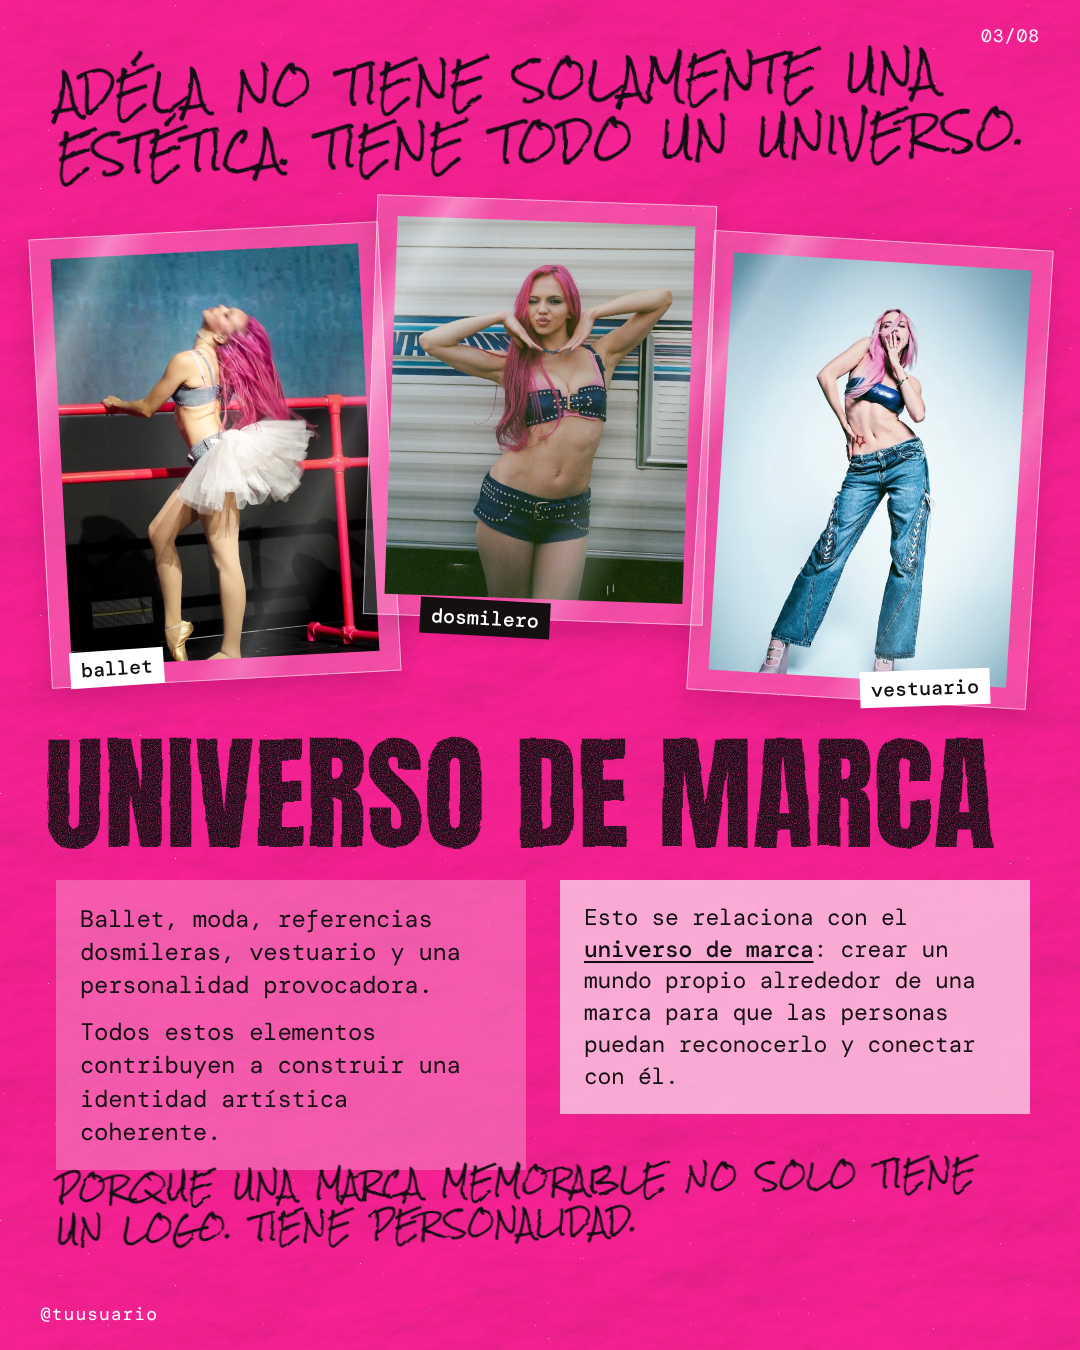
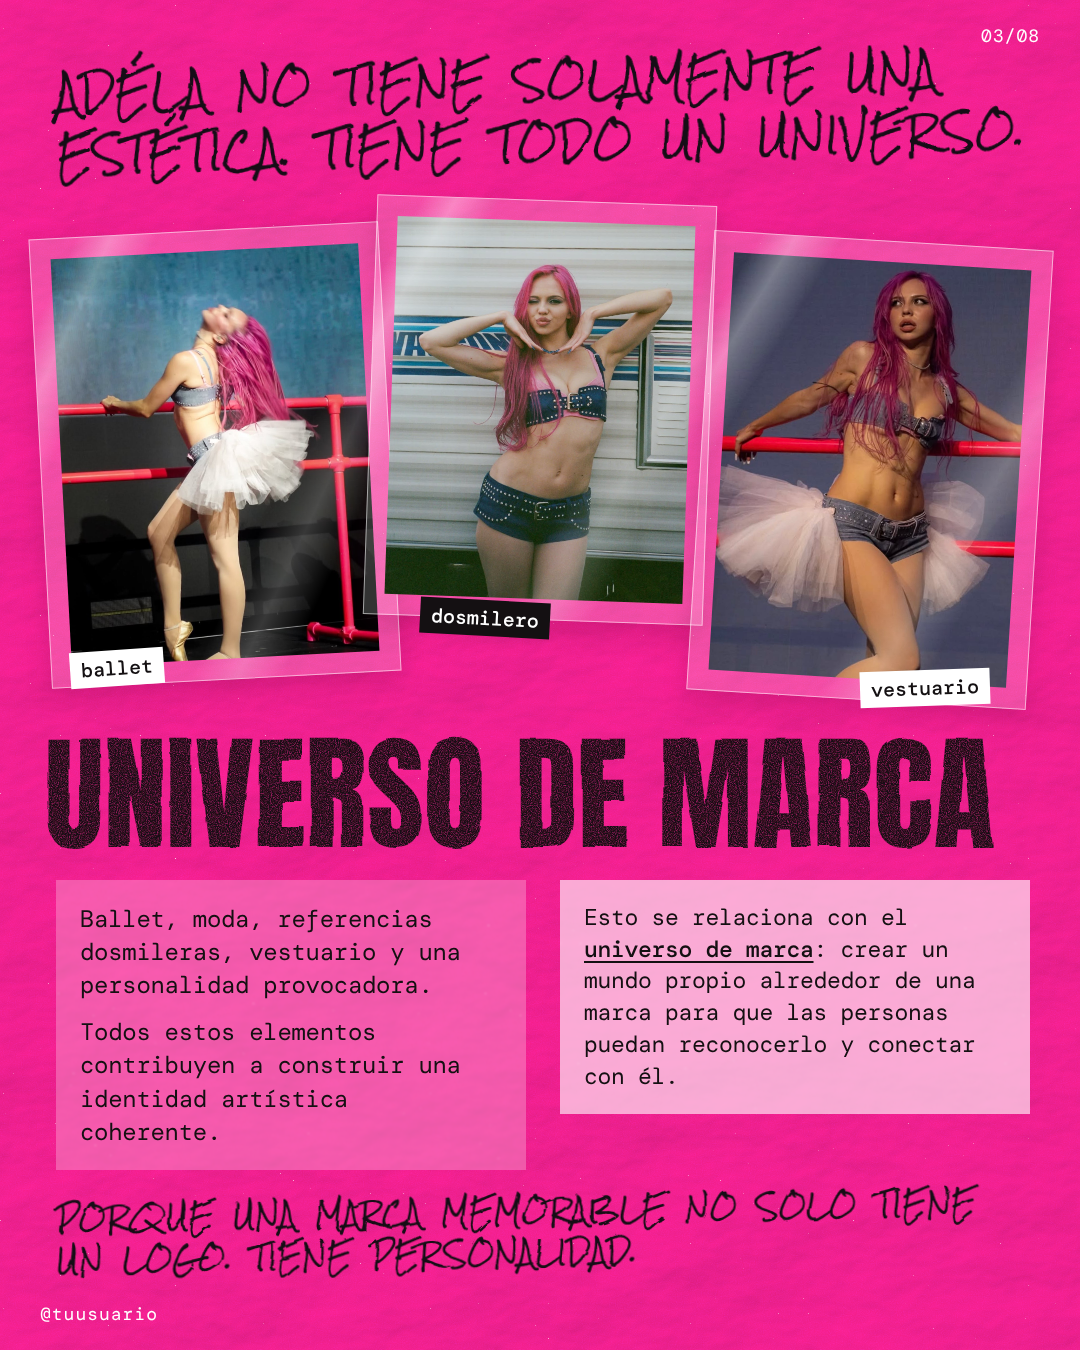
Carrusel ADÉLA v3: fotos coherentes con cada concepto (ballet, tutú, cabello rosa) y anotaciones
Claude-Session: https://claude.ai/code/session_01EttaFwFcyCceR8tBVwHGLn

diff --git a/carrusel-prima/adela-v3.html b/carrusel-prima/adela-v3.html
@@ -50,6 +50,8 @@
   .tag{position:absolute;font-family:"DM Mono";font-weight:500;font-size:20px;padding:5px 11px;background:#fff;color:var(--negro);white-space:nowrap;text-transform:lowercase}
   .tag.dark{background:var(--negro);color:#fff}
   .corner{position:absolute;font-family:"DM Mono";font-size:18px;letter-spacing:1px}
+  .anno{position:absolute;font-family:"Rock Salt";text-transform:uppercase;font-size:21px;color:#fff;white-space:nowrap;filter:url(#rough);text-shadow:0 2px 6px rgba(0,0,0,.45)}
+  svg.arrow{position:absolute;overflow:visible;pointer-events:none;filter:url(#rough) drop-shadow(0 2px 4px rgba(0,0,0,.4))}
   svg.deco{position:absolute;overflow:visible;pointer-events:none}
 </style>
 </head>
@@ -87,6 +89,8 @@
   <div class="hand abs" style="left:650px;top:110px;width:400px;font-size:32px;transform:rotate(-3deg)">¿Cabello rosa? Sí. ¿Una identidad reconocible? También.</div>
   <div class="big ink" style="left:44px;top:690px;font-size:180px">BRANDING</div>
   <svg class="deco scribble" data-seed="12" style="left:660px;top:500px" width="380" height="200"></svg>
+  <div class="anno" style="left:330px;top:560px;transform:rotate(-6deg)">cabello rosa</div>
+  <svg class="arrow" style="left:330px;top:400px" width="130" height="140"><path d="M110 135 C100 90 70 50 25 20 M25 20 L34 42 M25 20 L48 22" stroke="#fff" stroke-width="4" fill="none" stroke-linecap="round"/></svg>
 
   <div class="lyrics" style="left:56px;top:880px;width:470px">
     <div class="mono">Su cabello rosa se convirtió en uno de sus elementos visuales más característicos.</div>
@@ -103,9 +107,9 @@
   <div class="tex" data-seed="9"></div>
   <div class="hand abs" style="left:56px;top:50px;width:980px;font-size:38px;transform:rotate(-1.5deg)">ADÉLA no tiene solamente una estética. Tiene todo un universo.</div>
 
-  <div class="sleeve" style="left:40px;top:230px;width:350px;height:450px;transform:rotate(-3deg)"><img src="img/barra.jpg" style="object-position:40% 40%"></div>
+  <div class="sleeve" style="left:40px;top:230px;width:350px;height:450px;transform:rotate(-3deg)"><img src="img/ballet-barra.jpg" style="object-position:45% 35%"></div>
   <div class="sleeve" style="left:370px;top:200px;width:340px;height:420px;transform:rotate(2deg)"><img src="img/guino.jpg" style="object-position:50% 25%"></div>
-  <div class="sleeve" style="left:700px;top:240px;width:340px;height:460px;transform:rotate(3.5deg)"><img src="img/jeans.jpg" style="object-position:50% 15%"></div>
+  <div class="sleeve" style="left:700px;top:240px;width:340px;height:460px;transform:rotate(3.5deg)"><img src="img/tutu.jpg" style="object-position:50% 20%"></div>
   <div class="tag" style="left:70px;top:650px;transform:rotate(-4deg)">ballet</div>
   <div class="tag dark" style="left:420px;top:600px;transform:rotate(3deg)">dosmilero</div>
   <div class="tag" style="left:860px;top:670px;transform:rotate(-2deg)">vestuario</div>
@@ -117,7 +121,7 @@
   <div class="lyrics solid" style="left:560px;top:880px;width:470px">
     <div class="mono" style="font-size:23px">Esto se relaciona con el <span class="def-term">universo de marca</span>: crear un mundo propio alrededor de una marca para que las personas puedan reconocerlo y conectar con él.</div>
   </div>
-  <div class="hand abs" style="left:56px;top:1160px;width:980px;font-size:26px;transform:rotate(-1deg)">Porque una marca memorable no solo tiene un logo. Tiene personalidad.</div>
+  <div class="hand abs" style="left:56px;top:1190px;width:980px;font-size:26px;transform:rotate(-1deg)">Porque una marca memorable no solo tiene un logo. Tiene personalidad.</div>
   <div class="corner" style="right:40px;top:24px;color:#fff">03/08</div>
 </section>
 
@@ -151,8 +155,12 @@
 <section class="slide" id="s5">
   <div class="tex" data-seed="31"></div>
   <div class="hand abs" style="left:56px;top:50px;width:980px;font-size:31px;transform:rotate(-1.5deg)">En una industria llena de artistas, ¿qué hace que alguien destaque?</div>
-  <div class="sleeve" style="left:40px;top:235px;width:1000px;height:500px;transform:rotate(-.8deg)"><img src="img/swaggerina.jpg" style="object-position:50% 55%"></div>
-  <svg class="deco" style="left:395px;top:270px" width="300" height="460"><ellipse cx="150" cy="230" rx="128" ry="205" fill="none" stroke="#fff" stroke-width="5" filter="url(#rough)" transform="rotate(-6 150 230)"/><ellipse cx="152" cy="226" rx="122" ry="200" fill="none" stroke="#fff" stroke-width="2.5" filter="url(#rough)" transform="rotate(-3 150 230)"/></svg>
+  <div class="sleeve" style="left:40px;top:220px;width:340px;height:490px;transform:rotate(-3deg)"><img src="img/ballet-barra.jpg" style="object-position:45% 40%"></div>
+  <div class="sleeve" style="left:370px;top:200px;width:340px;height:470px;transform:rotate(2deg)"><img src="img/mic.jpg" style="object-position:40% 30%"></div>
+  <div class="sleeve" style="left:700px;top:225px;width:340px;height:490px;transform:rotate(3deg)"><img src="img/estrella.jpg" style="object-position:55% 35%"></div>
+  <div class="tag" style="left:70px;top:640px;transform:rotate(-4deg)">ballet</div>
+  <div class="tag dark" style="left:410px;top:610px;transform:rotate(3deg)">influencias musicales</div>
+  <div class="tag" style="left:860px;top:650px;transform:rotate(-3deg)">estética</div>
   <div class="big ink" style="left:44px;top:730px;font-size:150px">DIFERENCIACIÓN</div>
 
   <div class="lyrics" style="left:56px;top:900px;width:470px">
@@ -195,13 +203,17 @@
   </div>
   <div class="hand abs" style="left:56px;top:490px;width:980px;font-size:30px;transform:rotate(-1.5deg)">Ser visible consigue atención.<br>Ser reconocible construye memoria.</div>
 
-  <div class="washed" style="left:0;top:760px;width:1080px;height:590px"><img src="img/pinkwall.jpg" style="object-position:50% 30%"></div>
-  <div class="big ink" style="left:40px;top:660px;font-size:140px">POSICIONAMIENTO</div>
-  <div class="tag" style="left:500px;top:1000px;transform:rotate(-4deg)">cabello rosa</div>
-  <div class="tag dark" style="left:150px;top:950px;transform:rotate(3deg)">ballet</div>
-  <div class="tag" style="left:760px;top:930px;transform:rotate(-3deg)">estética</div>
-  <div class="tag dark" style="left:720px;top:1060px;transform:rotate(2deg)">propuesta musical</div>
-  <svg class="deco scribble" data-seed="19" style="left:640px;top:1100px" width="400" height="200"></svg>
+  <div class="big ink" style="left:40px;top:625px;font-size:130px">POSICIONAMIENTO</div>
+  <div class="sleeve" style="left:40px;top:770px;width:460px;height:620px;transform:rotate(-1.5deg)"><img src="img/tutu.jpg" style="object-position:50% 0%"></div>
+  <div class="anno" style="left:250px;top:770px;transform:rotate(-4deg)">cabello rosa</div>
+  <svg class="arrow" style="left:330px;top:800px" width="60" height="80"><path d="M10 5 C25 30 30 50 35 75 M35 75 L22 60 M35 75 L44 58" stroke="#fff" stroke-width="4" fill="none" stroke-linecap="round"/></svg>
+  <div class="anno" style="left:60px;top:1030px;transform:rotate(-3deg)">barra de ballet</div>
+  <div class="anno" style="left:250px;top:1255px;transform:rotate(-5deg)">tutú</div>
+  <svg class="arrow" style="left:150px;top:1180px" width="110" height="90"><path d="M100 80 C80 70 40 50 10 10 M10 10 L14 32 M10 10 L32 14" stroke="#fff" stroke-width="4" fill="none" stroke-linecap="round"/></svg>
+  <div class="sleeve" style="left:530px;top:790px;width:250px;height:340px;transform:rotate(3deg)"><img src="img/mic.jpg" style="object-position:40% 30%"></div>
+  <div class="sleeve" style="left:790px;top:810px;width:250px;height:340px;transform:rotate(-2deg)"><img src="img/estrella.jpg" style="object-position:55% 35%"></div>
+  <div class="tag dark" style="left:545px;top:1110px;transform:rotate(2deg)">propuesta musical</div>
+  <div class="tag" style="left:850px;top:1125px;transform:rotate(-3deg)">estética</div>
   <div class="corner" style="right:40px;top:24px;color:#fff">07/08</div>
 </section>
 
